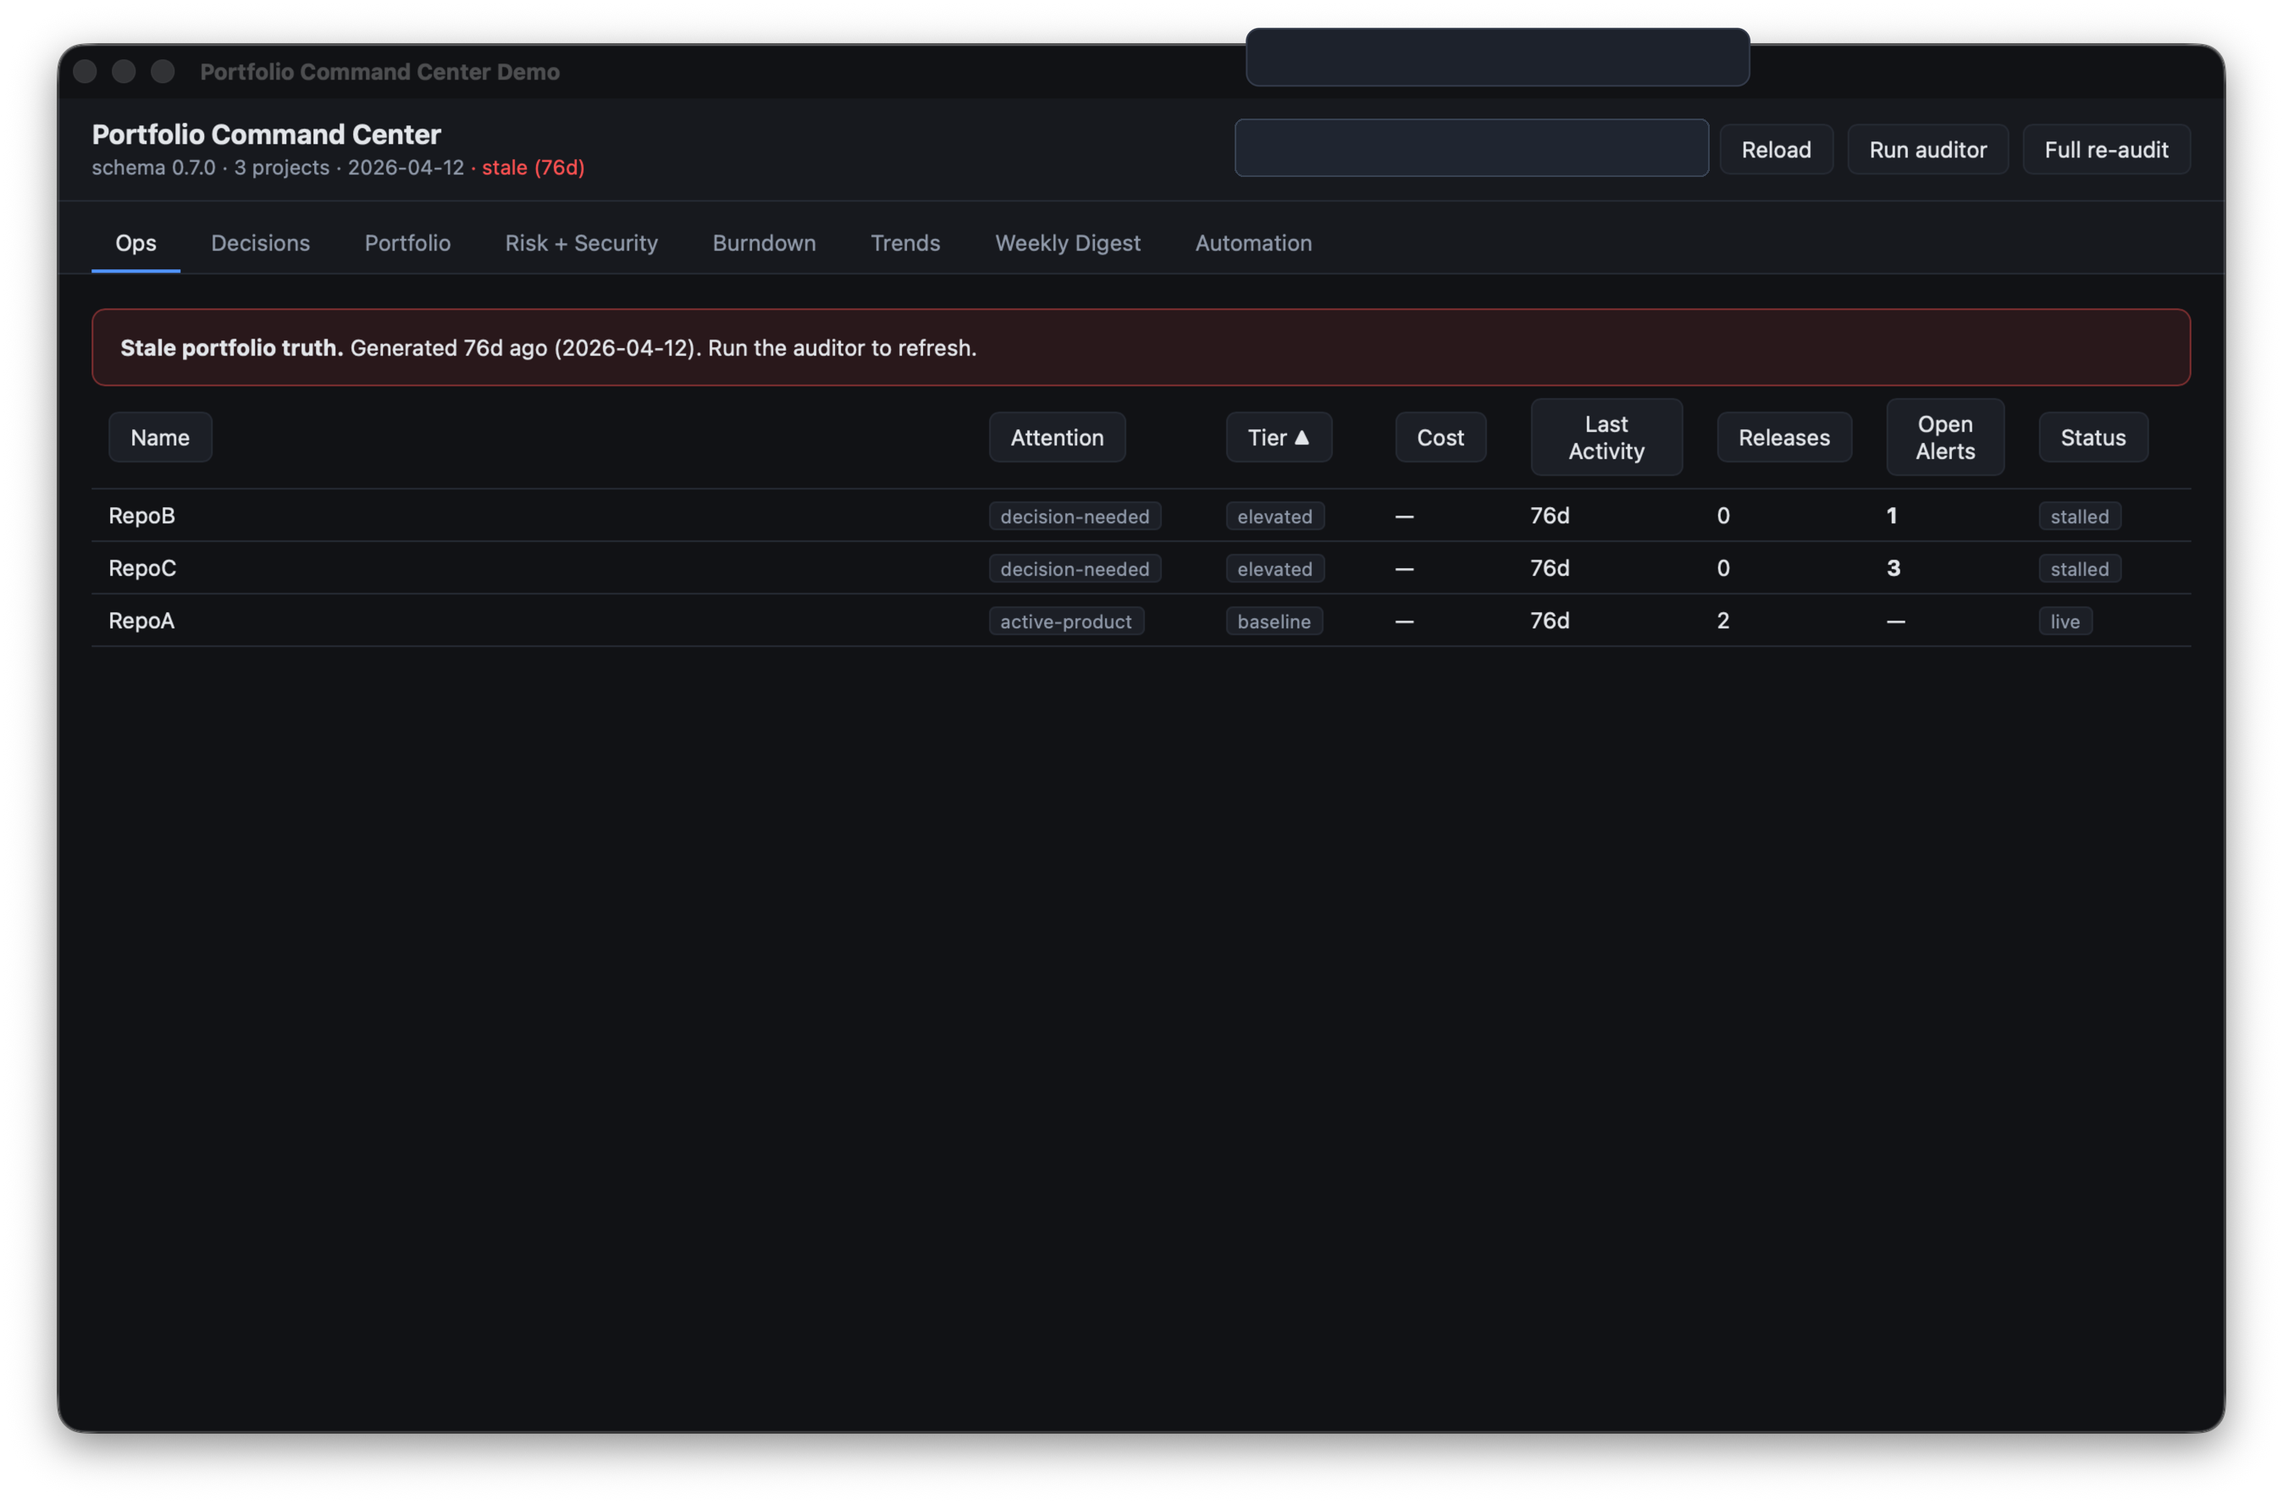
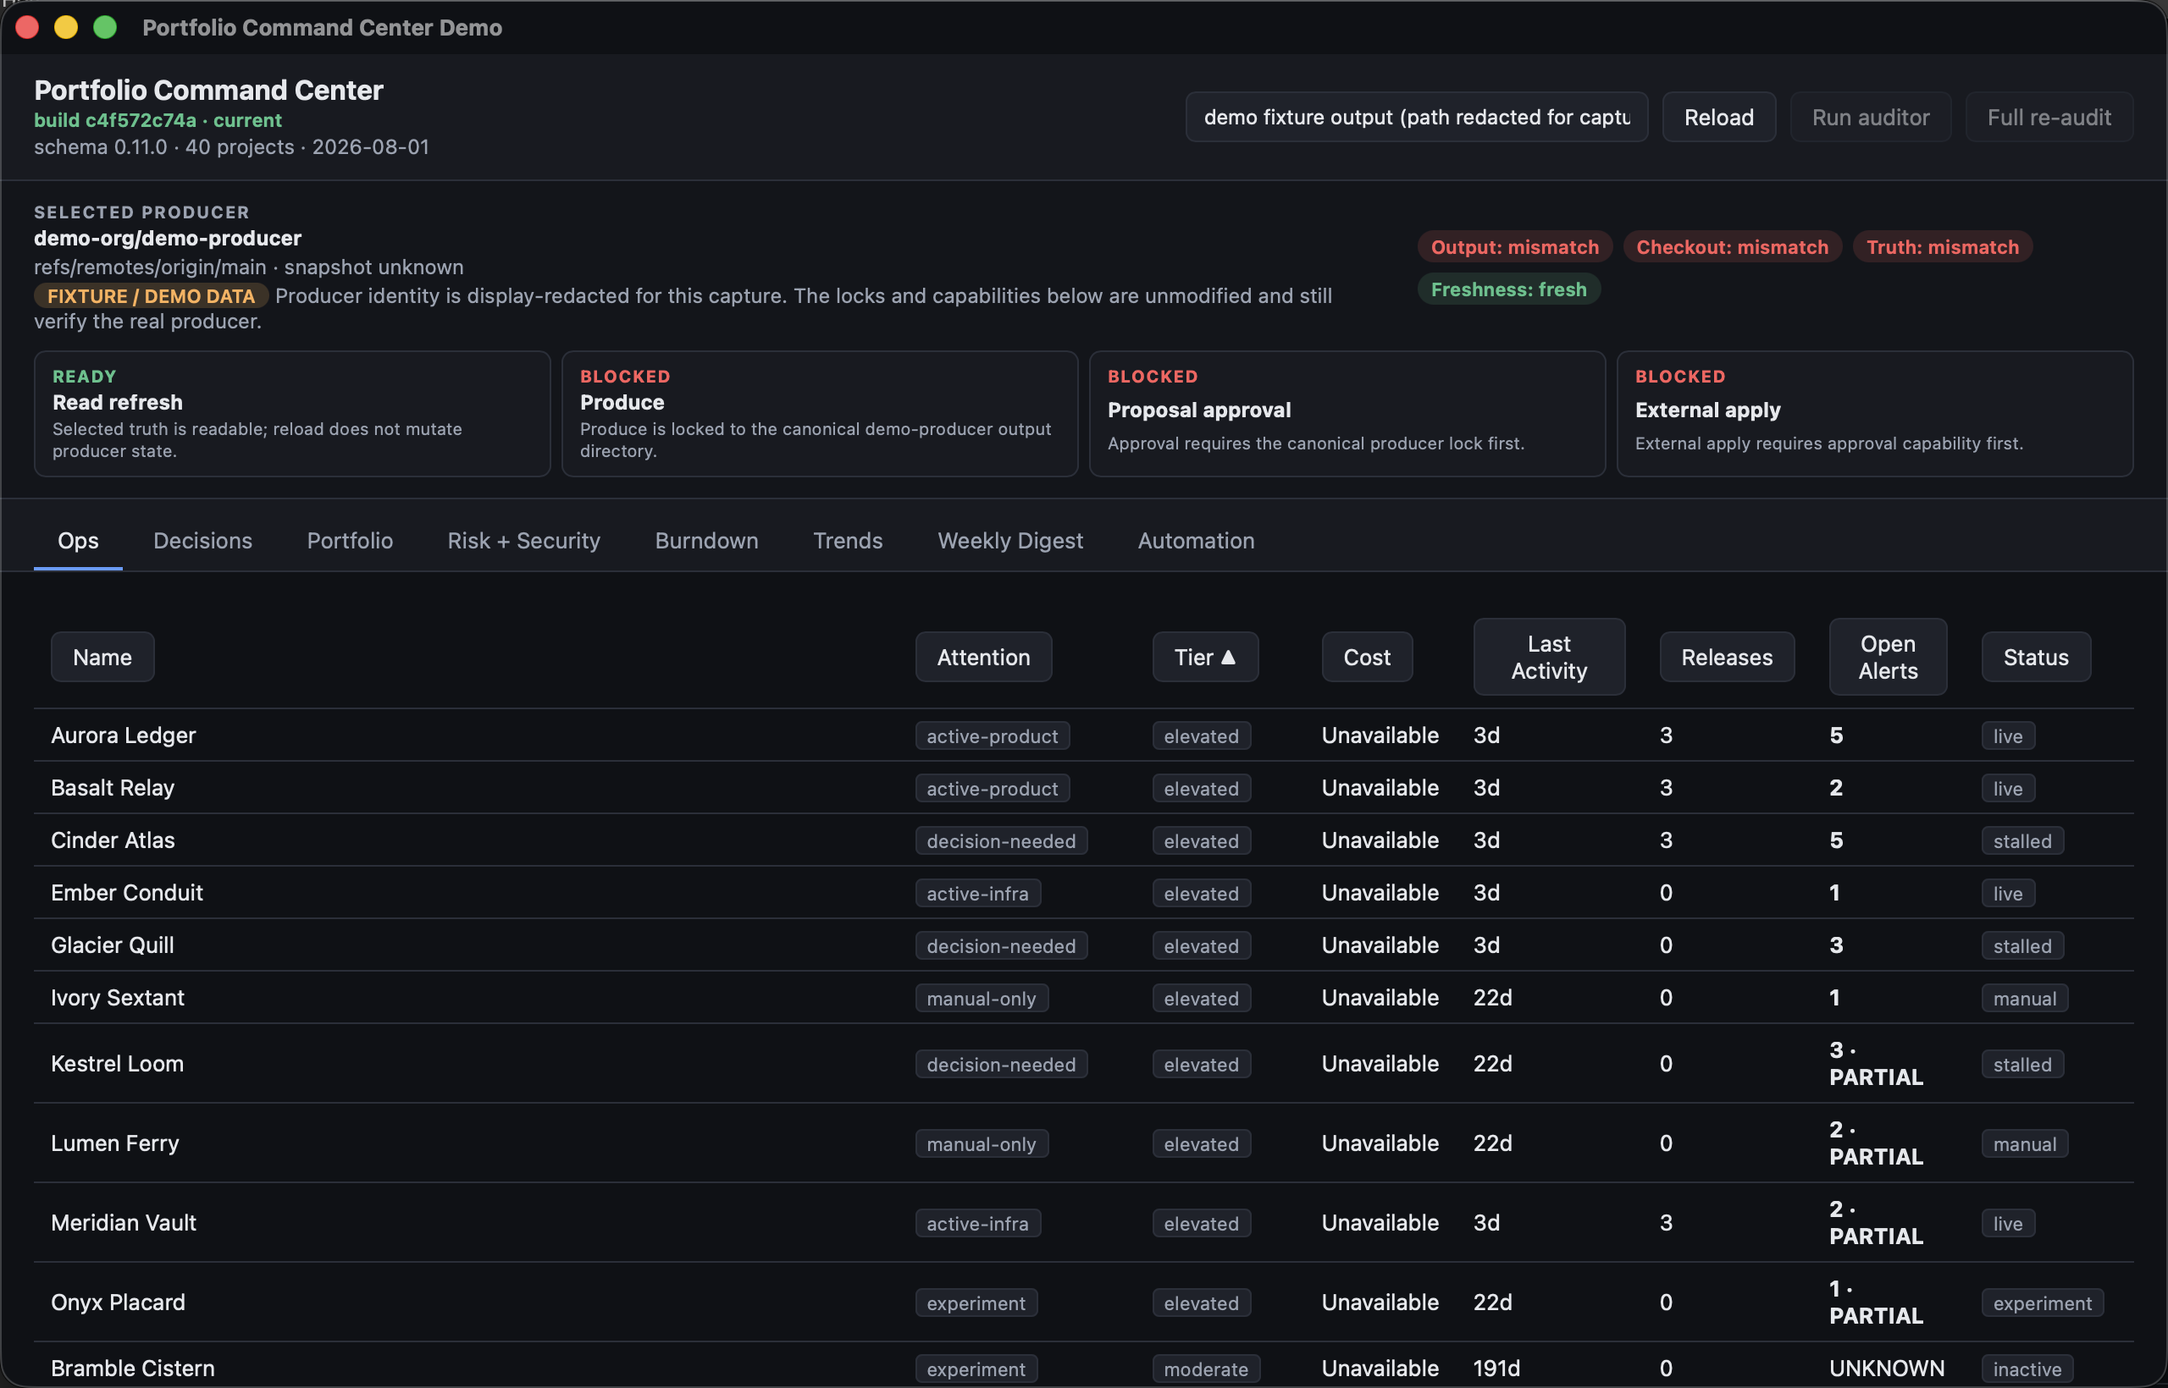
docs(demo-proof): recapture public fixture frames against the 0.11.0 portfolio
The committed frames dated from the three-project 0.7.0 fixture and no longer
depicted the generated artifacts. A first recapture attempt was abandoned
because the consumer printed the real producer identity in two places: the
boundary panel above the tab bar, and the header output-directory input whose
path names the producer repository.

Both leaks are fixed upstream and merged, so the frames are recaptured here.
The consumer now renders demo-org/demo-producer behind a FIXTURE / DEMO DATA
pill and a neutral read-only output label whenever the resolved output is the
demo fixture directory and the output lock is open. The redaction is display
only; the boundary still verifies the real compile-time producer, and pointing
the demo environment variable at the canonical output cannot blank a real
producing session because that output is locked.

All eight tabs are now covered, up from six, adding Decisions and Automation.
Every frame comes from the same live Tauri window at native resolution, with
nothing cropped, painted over, or composited.

Each frame was verified twice: visually at full resolution, and by an OCR sweep
searching for the real owner and repository name read from the consumer source
rather than hardcoded. The sweep was scored against known-present control
strings first, so a clean result reflects absent text rather than a failed OCR
pass.

The visual-capture claim and verification.overall move to passed. The remaining
[…]

diff --git a/docs/demo-proof/public-fixture/VERIFICATION-NOTES.md b/docs/demo-proof/public-fixture/VERIFICATION-NOTES.md
@@ -1,6 +1,6 @@
 # Public Fixture Verification Notes
 
-Date: 2026-06-27
+Date: 2026-08-02 (frames recaptured; supersedes the 2026-06-27 capture)
 
 ## Fixture Truth
 
@@ -26,39 +26,68 @@ pnpm build
 pnpm demo:desktop:fixture
 ```
 
+The 2026-08-02 recapture did not regenerate the fixture. The committed truth was
+generated at `2026-08-01T22:50Z`, which was 20.6h old at capture time and well
+inside the 48h fresh window, so regenerating would have churned the artifacts
+without changing what the frames show. The consumer-side checks were re-run on
+PortfolioCommandCenter `main` at `c4f572c` before capture: `pnpm typecheck`
+clean, `pnpm test` 173 passing across 12 files.
+
 ## Visual Capture
 
-- Desktop shell frame captured from the live Tauri window with `screencapture -l`.
-- Tab frames captured from the PortfolioCommandCenter React app served by Vite,
-  with Tauri IPC mocked to the same fixture files in `output/demo`.
-- Captured tabs: Portfolio, Risk + Security, Burndown, Trends, Weekly Digest.
+Recaptured 2026-08-02 against the `0.11.0` fixture. Every frame comes from the
+same live Tauri window launched with `pnpm demo:desktop:fixture`; no frame is
+composited, cropped, or served from a Vite-only mock.
+
+- Window normalised to 1280x820 and captured with `screencapture -x -R`, which
+  yields 2560x1640 native-resolution PNGs.
+- All eight tabs captured: Ops, Decisions, Portfolio, Risk + Security, Burndown,
+  Trends, Weekly Digest, Automation.
+- Tab switching was driven from the keyboard. The tab bar is a `role="tablist"`
+  of plain buttons with no roving `tabindex`, so arrow keys do not move between
+  tabs; the working sequence is Tab to walk focus onto the next tab button and
+  Space to activate it. macOS System Events `click at` does not reach the
+  WKWebView content and was not used.
+- The active tab carries a keyboard focus ring in frames 01-07. That is the real
+  rendered UI under keyboard navigation, not an annotation. Frame 00 was taken
+  before focus entered the tab bar and therefore shows no ring.
 
 ## Public-Safety Review
 
-Manual inspection confirmed the retained frames show fixture labels only:
+Every frame was reviewed twice: once visually at full 2560x1640 resolution, and
+once by OCR sweep so the claim rests on bytes rather than on eyeballing.
 
-- repo names are `RepoA`, `RepoB`, `RepoC`;
-- paths are relative fixture paths such as `fixtures/demo/RepoA`;
-- app output directory is the public fixture output directory;
-- advisories and packages are synthetic (`demo-runtime`, `demo-ui-kit`,
-  `GHSA-DEMO-0001`, `GHSA-DEMO-0002`);
-- no terminal, browser chrome, account menu, local absolute path, token, email,
-  calendar, Slack, Notion row, bridge-db row, personal-ops data, SecondBrain
-  content, or real security finding is visible.
+Visual inspection confirmed the frames show fixture labels only:
 
-The regenerated truth artifacts were re-checked for the same boundary: no
-absolute local path, operator name, or real repository name appears in
-`output/demo/portfolio-truth*.json`, and every advisory remains synthetic
-(`demo-crypto-core`, `demo-ui-kit`, `demo-transport`, `GHSA-DEMO-0001` through
-`GHSA-DEMO-0003`).
+- project names come from the closed synthetic codename pool (`Aurora Ledger`,
+  `Basalt Relay`, `Cinder Atlas`, ... `Umbra Trellis`);
+- paths are synthetic relative slugs such as `flagship/aurora-ledger` and
+  `studio/kestrel-loom`; no absolute local path appears;
+- the header output-directory input renders the neutral label
+  `demo fixture output (path redacted for capture)`;
+- the boundary panel names `demo-org/demo-producer` and carries the
+  `FIXTURE / DEMO DATA` pill;
+- advisories and packages are synthetic (`demo-crypto-core`, `demo-ui-kit`,
+  `demo-transport`, `GHSA-DEMO-0001` through `GHSA-DEMO-0003`);
+- no terminal, browser chrome, account menu, token, email, calendar, Slack,
+  Notion row, bridge-db row, personal-ops data, SecondBrain content, or real
+  security finding is visible.
 
-Open item: the screenshots above were captured on 2026-06-27 from the previous
-three-project `0.7.0` fixture. They no longer depict the generated artifacts and
-must be recaptured before the package is republished. The stale
-fixture date that produced the old stale-data banner is resolved: freshness is
-now computed at generation time, and `scripts/validate_proof_package.py` fails
-the package if the published truth ever drifts out of the fresh window or off
-the producer's current schema.
+The OCR sweep ran `tesseract` over all eight frames and searched the extracted
+text for the real producer owner and repository name (read directly from
+`PortfolioCommandCenter/src-tauri/src/boundary.rs` rather than hardcoded), plus
+`/Users/`, the operator's name, and a real workspace path fragment. No frame
+matched any of them.
+
+The sweep was scored against a known answer before its silence was trusted: each
+frame was also required to yield the control strings `demo-org` and
+`demo-producer`. All eight frames returned both controls (168-325 words
+extracted per frame), so a clean result reflects absent text rather than a
+failed OCR pass.
+
+The generated truth artifacts were re-checked for the same boundary: no absolute
+local path, operator name, or real repository name appears in
+`output/demo/portfolio-truth*.json`, and every advisory remains synthetic.
 
 ## Recapture Blocker (2026-08-02)
 
@@ -95,3 +124,42 @@ present a fixture producer identity (for example, sourcing the expected producer
 from configuration with the current constant as the default). That is consumer
 work outside this package; until it lands, the visual-capture claim stays
 `stale` and `verification.overall` stays `partial`.
+
+### Resolved (2026-08-02)
+
+The consumer change landed and this blocker is closed. PortfolioCommandCenter
+`main` at `c4f572c` carries it across two merged pull requests:
+
+- **#38**, which added display redaction to the boundary panel. When the resolved
+  output directory is the configured demo fixture directory *and* the boundary
+  reports `output_lock` is not `locked`, the panel renders
+  `demo-org/demo-producer` plus a `FIXTURE / DEMO DATA` pill.
+- a follow-up commit in the same pull request, which routes the header
+  output-directory input through `outputDirDisplay` so it renders
+  `demo fixture output (path redacted for capture)` read-only in demo mode. That
+  input was the second leak: the real path names the producer repository.
+
+Two properties of the fix matter for whether these frames count as evidence
+rather than as a doctored exhibit:
+
+1. **It is display-only.** The Rust boundary still verifies the real compile-time
+   producer constants. Nothing in the redaction path can repoint that check, and
+   the locks and capability reasons shown in the frames are the genuine
+   evaluation of the real producer. The panel says so on its face.
+2. **It cannot blank a real producing session.** The demo gate needs both a
+   matching `VITE_DEMO_OUTPUT_DIR` *and* an unlocked output. Pointing the
+   environment variable at the canonical output does not silence the identity,
+   because `output_lock` is `locked` there.
+
+The redaction is also applied to derived strings, not just the identity line.
+`redactor()` rewrites the producer name out of enforcement reasons and recovery
+detail on their way to the DOM, which is visible in the captured frames: the
+Produce capability reads "locked to the canonical demo-producer output
+directory". Redacting only the identity line would have leaked the name through
+those strings.
+
+Accordingly the visual-capture claim is now `passed` and
+`verification.overall` is `passed`. The earlier judgement that a cropped or
+patched band would be unacceptable still stands, and these frames do not rely on
+one: nothing was cropped, painted over, or composited. The app rendered the
+redacted values itself.

diff --git a/docs/demo-proof/public-fixture/RECORDING-CHECKLIST.md b/docs/demo-proof/public-fixture/RECORDING-CHECKLIST.md
@@ -5,9 +5,16 @@ Use this checklist for a public-safe Portfolio Command Center recording.
 ## Preflight
 
 - [ ] Run `make demo` from `GithubRepoAuditor`.
-- [ ] Run `pnpm demo:desktop:fixture` from `PortfolioCommandCenter`.
+- [ ] Run `pnpm demo:desktop:fixture` from `PortfolioCommandCenter`. Use this
+      target specifically: it sets `VITE_DEMO_OUTPUT_DIR`, which is one of the
+      two gates that enable demo redaction.
 - [ ] Confirm Portfolio Command Center is pointed at the fixture output directory.
 - [ ] Confirm the visible data is fixture data, not the private live portfolio.
+- [ ] Confirm the boundary panel reads `demo-org/demo-producer` and shows the
+      `FIXTURE / DEMO DATA` pill. If it shows the real producer, demo redaction
+      did not engage; stop and fix the launch rather than cropping the frame.
+- [ ] Confirm the header output-directory input reads `demo fixture output (path
+      redacted for capture)`.
 - [ ] Hide terminals, path bars, desktop clutter, account menus, and notification banners.
 
 ## Shot Order
@@ -35,4 +42,14 @@ Use this checklist for a public-safe Portfolio Command Center recording.
 
 Use the included `screenshots/` frames as still-image evidence or as the visual
 source for a website case-study block. If recording new video, treat these
-frames as the reference for what safe output looks like.
+frames as the reference for what safe output looks like. All eight tabs are
+covered, recaptured 2026-08-02 against the `0.11.0` fixture.
+
+## Driving The Tabs Without A Mouse
+
+The tab bar is a `role="tablist"` of plain buttons with no roving `tabindex`, so
+arrow keys do not move between tabs, and macOS System Events `click at` does not
+reach the WKWebView content. To automate a capture pass: Tab four times from a
+fresh window to land on the second tab, then Space to activate. From there each
+Tab-then-Space advances exactly one tab. The active tab will carry a keyboard
+focus ring, which is genuine rendered UI and safe to publish.

diff --git a/docs/demo-proof/public-fixture/SUMMARY.md b/docs/demo-proof/public-fixture/SUMMARY.md
@@ -18,19 +18,22 @@ Portfolio Command Center demo:
 - private services required: none;
 - live writes performed: none.
 
-Captured public-safe frames (captured from the previous three-project `0.7.0`
-fixture; they predate the synthetic portfolio above and need recapture before
-republication):
+Captured public-safe frames, recaptured 2026-08-02 against the synthetic
+`0.11.0` portfolio described above:
 
-- `screenshots/00-ops-tauri-window.png`: Tauri desktop shell reading the fixture
-  output directory.
+- `screenshots/00-ops-tauri-window.png`: Tauri desktop shell on the Ops tab,
+  reading the fixture output directory.
 - `screenshots/01-portfolio.png`: Portfolio tab.
 - `screenshots/02-risk-security.png`: Risk + Security tab.
 - `screenshots/03-burndown.png`: Burndown tab.
 - `screenshots/04-trends.png`: Trends tab.
 - `screenshots/05-weekly-digest.png`: Weekly Digest tab.
+- `screenshots/06-decisions.png`: Decisions tab.
+- `screenshots/07-automation.png`: Automation tab.
 
-The tab frames were captured from the PortfolioCommandCenter React surface with
-Tauri IPC mocked to the same fixture files under `output/demo/`. The desktop
-shell frame was captured from the live Tauri window launched with the fixture
-output path preselected.
+All eight frames come from the same live Tauri window launched with
+`pnpm demo:desktop:fixture`, normalised to 1280x820 and captured at native
+2560x1640. Nothing is mocked, cropped, or composited: the producer identity and
+output path shown in the frames are redacted by the app itself, in demo mode,
+while the underlying boundary checks continue to verify the real producer. See
+VERIFICATION-NOTES.md.

diff --git a/docs/demo-proof/public-fixture/README.md b/docs/demo-proof/public-fixture/README.md
@@ -54,16 +54,20 @@ the live local default output directory for public recording.
 
 Public-safe frames are included under `screenshots/`:
 
-- `00-ops-tauri-window.png` - desktop shell proof.
+- `00-ops-tauri-window.png` - desktop shell proof, Ops tab.
 - `01-portfolio.png` - portfolio table.
 - `02-risk-security.png` - risk and security posture.
 - `03-burndown.png` - grouped remediation view.
 - `04-trends.png` - history and security drift.
 - `05-weekly-digest.png` - weekly digest and next move.
+- `06-decisions.png` - decision queue and suppression breakdown.
+- `07-automation.png` - metadata-only proposal approval queue.
 
-The frames show only fixture repos (`RepoA`, `RepoB`, `RepoC`), synthetic
-packages, synthetic advisory ids, relative fixture paths, and the fixture output
-directory.
+The frames show only synthetic project codenames (`Aurora Ledger`, `Basalt
+Relay`, ... `Umbra Trellis`), synthetic packages, synthetic advisory ids,
+relative fixture paths, and a redacted fixture output label. The producer
+identity renders as `demo-org/demo-producer` behind a `FIXTURE / DEMO DATA`
+pill.
 
 ## Safety Claim
 

diff --git a/docs/demo-proof/public-fixture/WEBSITE-CONTENT.md b/docs/demo-proof/public-fixture/WEBSITE-CONTENT.md
@@ -47,3 +47,5 @@ Pair the copy with these local assets:
 - `screenshots/03-burndown.png`
 - `screenshots/04-trends.png`
 - `screenshots/05-weekly-digest.png`
+- `screenshots/06-decisions.png`
+- `screenshots/07-automation.png`
